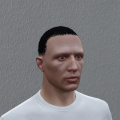
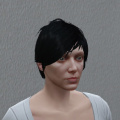
add female hairstyles

Changed region(s): [[0.0, 0.15, 0.95, 1.0]]

diff --git a/src/store/create-pers/leather-store.js b/src/store/create-pers/leather-store.js
@@ -14,7 +14,8 @@ class LeatherStore {
   }
 
   onValueChange = (value, valueName) => {
-    value = (value ^ 0) === value ? value : Number(value.toFixed(2))
+    if (typeof value === 'number')
+      value = (value ^ 0) === value ? value : Number(value.toFixed(2))
     this.state[valueName].value = value
     if (window.mp) window.mp.trigger('createCharChangeValue', valueName, value)
   }

diff --git a/src/store/create-pers/eyes-store.js b/src/store/create-pers/eyes-store.js
@@ -11,7 +11,8 @@ class EyesStore {
   }
 
   onValueChange = (value, valueName) => {
-    value = (value ^ 0) === value ? value : Number(value.toFixed(2))
+    if (typeof value === 'number')
+      value = (value ^ 0) === value ? value : Number(value.toFixed(2))
     this.state[valueName].value = value
     if (window.mp) window.mp.trigger('createCharChangeValue', valueName, value)
   }

diff --git a/src/store/create-pers/face-store.js b/src/store/create-pers/face-store.js
@@ -64,7 +64,8 @@ class FaceStore {
   }
 
   onValueChange = (value, valueName) => {
-    value = (value ^ 0) === value ? value : Number(value.toFixed(2))
+    if (typeof value === 'number')
+      value = (value ^ 0) === value ? value : Number(value.toFixed(2))
     this.state[valueName].value = value
     if (window.mp) window.mp.trigger('createCharChangeValue', valueName, value)
   }

diff --git a/src/components/create-pers/modules/toggle-img.js b/src/components/create-pers/modules/toggle-img.js
@@ -21,7 +21,7 @@ export default observer(
     )
 
     const hairs = []
-    for (let i = 0; i < 3; i++) {
+    for (let i = 0; i < 20; i++) {
       hairs.push(
         <img
           key={i}
